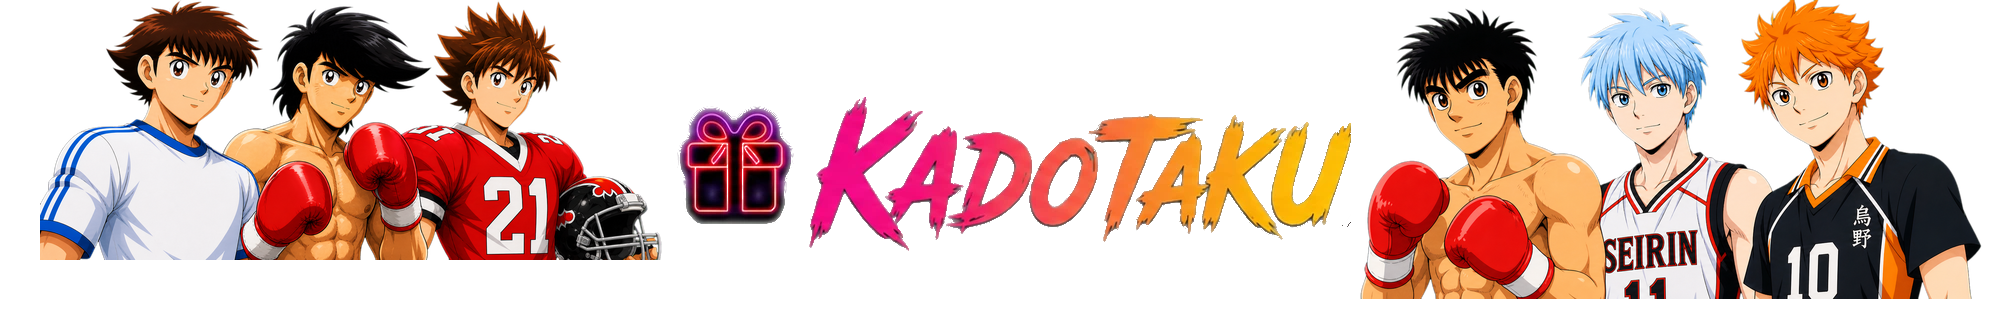
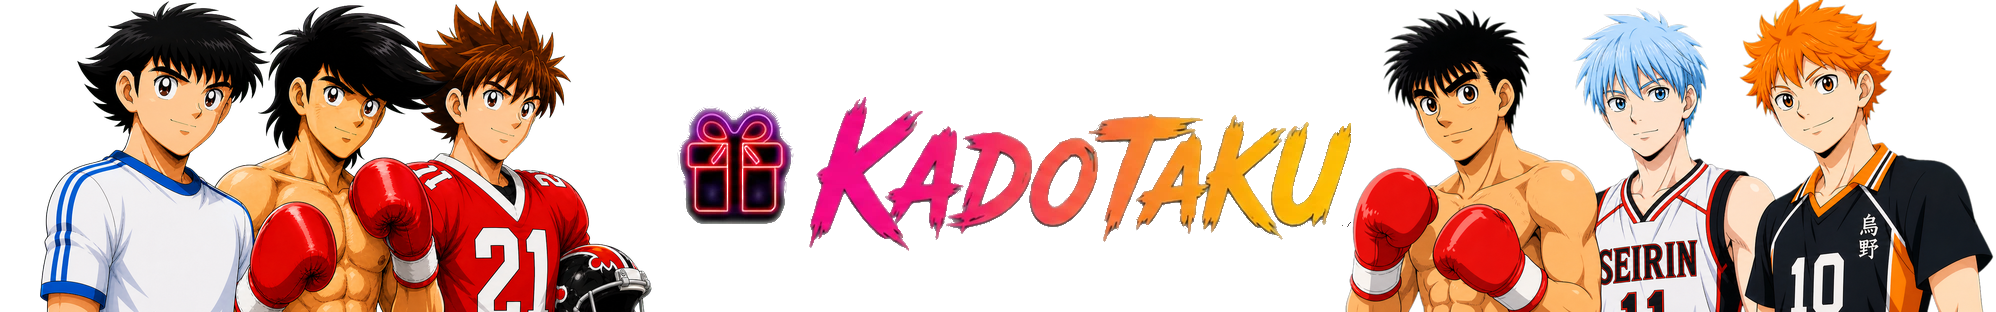
Corrige le bandeau sport et précharge les fonds

diff --git a/app.js b/app.js
@@ -350,7 +350,7 @@ const HERO_BANNER_VARIANTS = {
             "tsubasa_joe",
             "tsubasa-joe",
             "Tsubasa / Joe",
-            "20260814-tsubasa-joe-open-5"
+            "20260820-tsubasa-joe-bottom-6"
         ),
         createHeroBannerVariant(
             "anime",
@@ -1607,7 +1607,69 @@ function cycleHeroBannerVariant(
     return false;
 }
 
-function updateUniverseHero(){
+const HERO_BANNER_PRELOAD_CACHE = new Map();
+let heroBannerRenderToken = 0;
+
+function preloadHeroBannerAsset(src){
+
+    if(!src){
+        return Promise.resolve();
+    }
+
+    const cached =
+        HERO_BANNER_PRELOAD_CACHE.get(src);
+
+    if(cached){
+        return cached;
+    }
+
+    const pending = new Promise((resolve,reject) =>{
+        const image = new Image();
+
+        image.onload = async () =>{
+            try{
+                if(typeof image.decode === "function"){
+                    await image.decode();
+                }
+            } catch(error){
+                // Le fichier est déjà chargé : le décodage synchrone suffira.
+            }
+
+            resolve(image);
+        };
+
+        image.onerror = () =>{
+            reject(
+                new Error(
+                    `Impossible de précharger ${src}`
+                )
+            );
+        };
+
+        image.src = src;
+    });
+
+    HERO_BANNER_PRELOAD_CACHE.set(
+        src,
+        pending
+    );
+
+    pending.catch(() =>{
+        if(
+            HERO_BANNER_PRELOAD_CACHE.get(src) ===
+            pending
+        ){
+            HERO_BANNER_PRELOAD_CACHE.delete(src);
+        }
+    });
+
+    return pending;
+}
+
+async function updateUniverseHero(){
+
+    const renderToken =
+        ++heroBannerRenderToken;
 
     const heroBackground =
         document.querySelector(".hero-background");
@@ -1623,6 +1685,30 @@ function updateUniverseHero(){
 
     const isGameUniverse =
         licenceUniverseMode === "game";
+
+    try{
+        await Promise.all([
+            preloadHeroBannerAsset(
+                heroBanner.fond
+            ),
+            preloadHeroBannerAsset(
+                heroBanner.calque
+            ),
+            preloadHeroBannerAsset(
+                heroBanner.titre
+            )
+        ]);
+    } catch(error){
+        console.warn(
+            "Le nouveau bandeau n'a pas pu être préchargé.",
+            error
+        );
+        return;
+    }
+
+    if(renderToken !== heroBannerRenderToken){
+        return;
+    }
 
     if(heroBackground){
         heroBackground.style.backgroundImage =
@@ -1660,6 +1746,17 @@ function updateUniverseHero(){
     applyHeroDisplayMode();
     checkHeroFullNoTitleAvailability();
     updateSiteThemeFromHero();
+
+    Promise.all([
+        preloadHeroBannerAsset(
+            heroBanner.full
+        ),
+        preloadHeroBannerAsset(
+            heroBanner.noTitle
+        )
+    ]).catch(() =>{
+        // Les versions complètes seront retentées à leur ouverture.
+    });
 }
 
 function getCurrentHeroThemePath(){

diff --git a/index.html b/index.html
@@ -472,7 +472,7 @@ content="Découvrez les meilleures idées cadeaux anime et manga : figurines, go
 
 </div>
 
-<script src="/app.js?v=20260814-banners-sync-1"></script>
+<script src="/app.js?v=20260820-hero-preload-2"></script>
 
 </body>
 </html>
